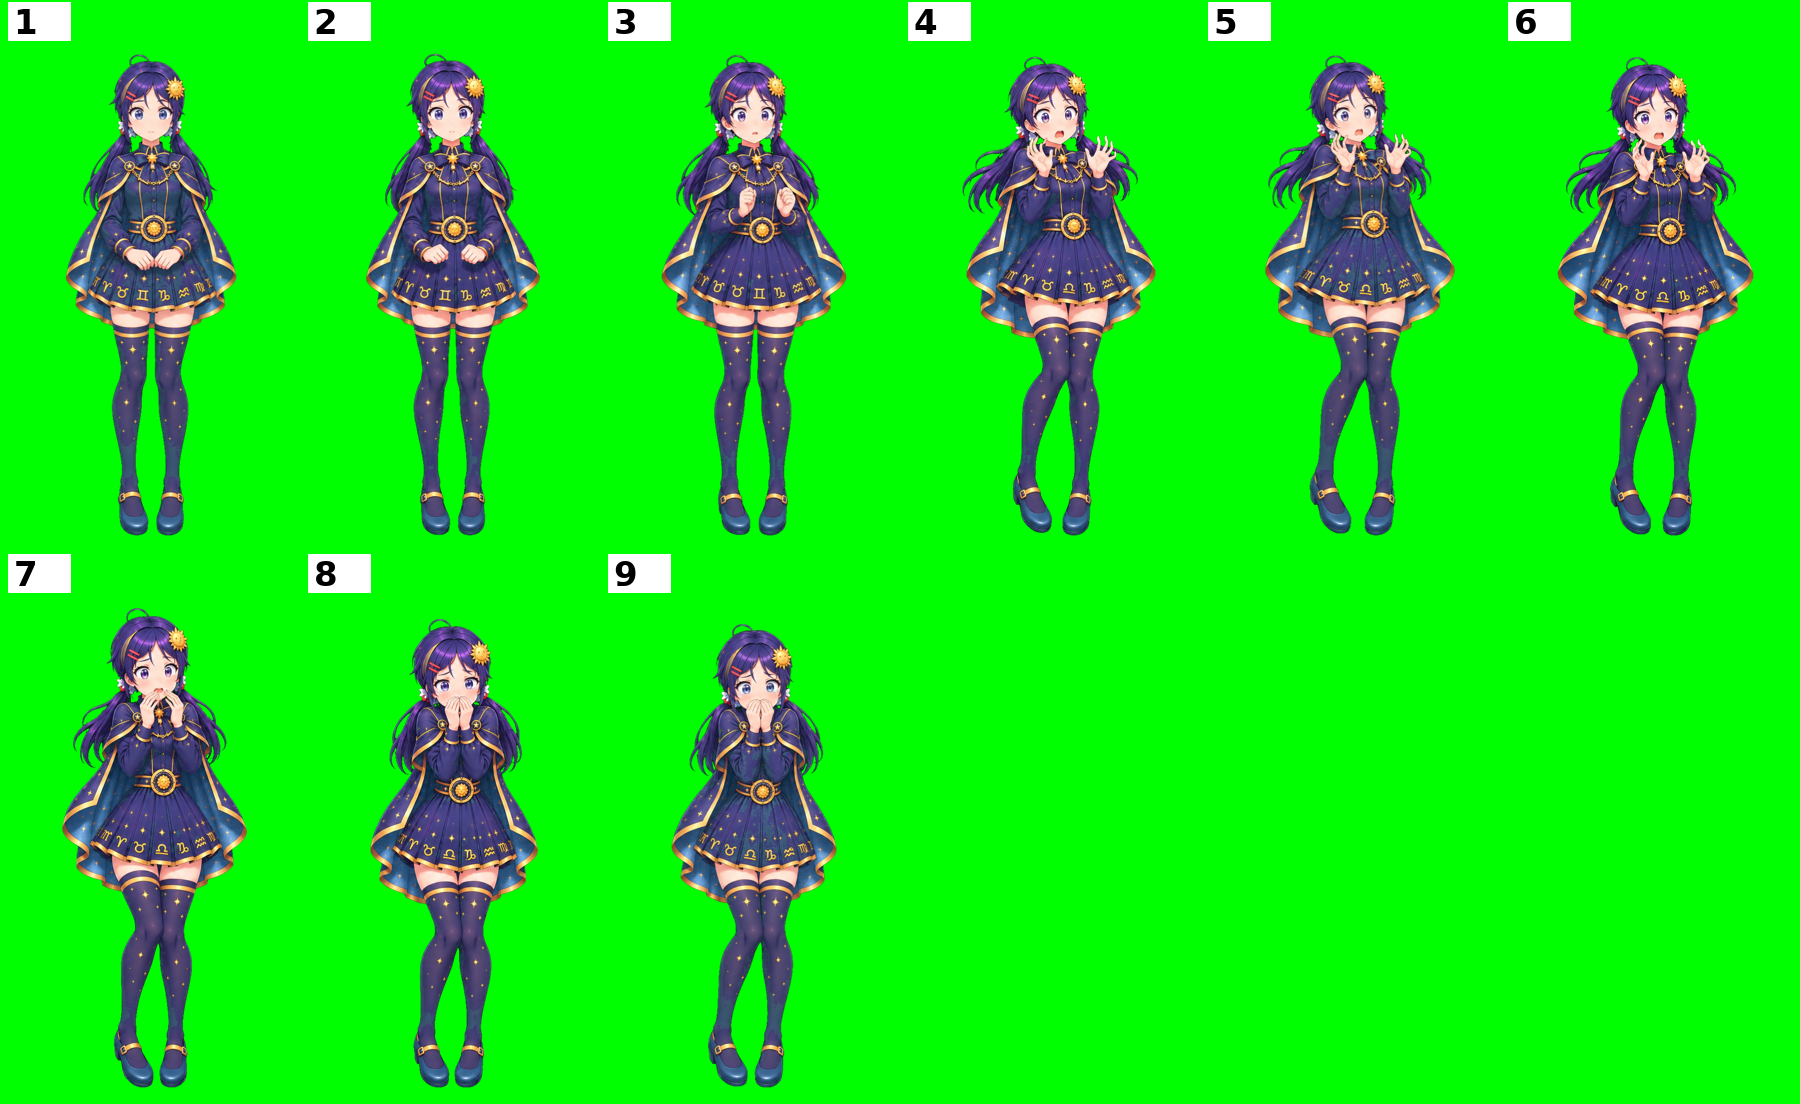
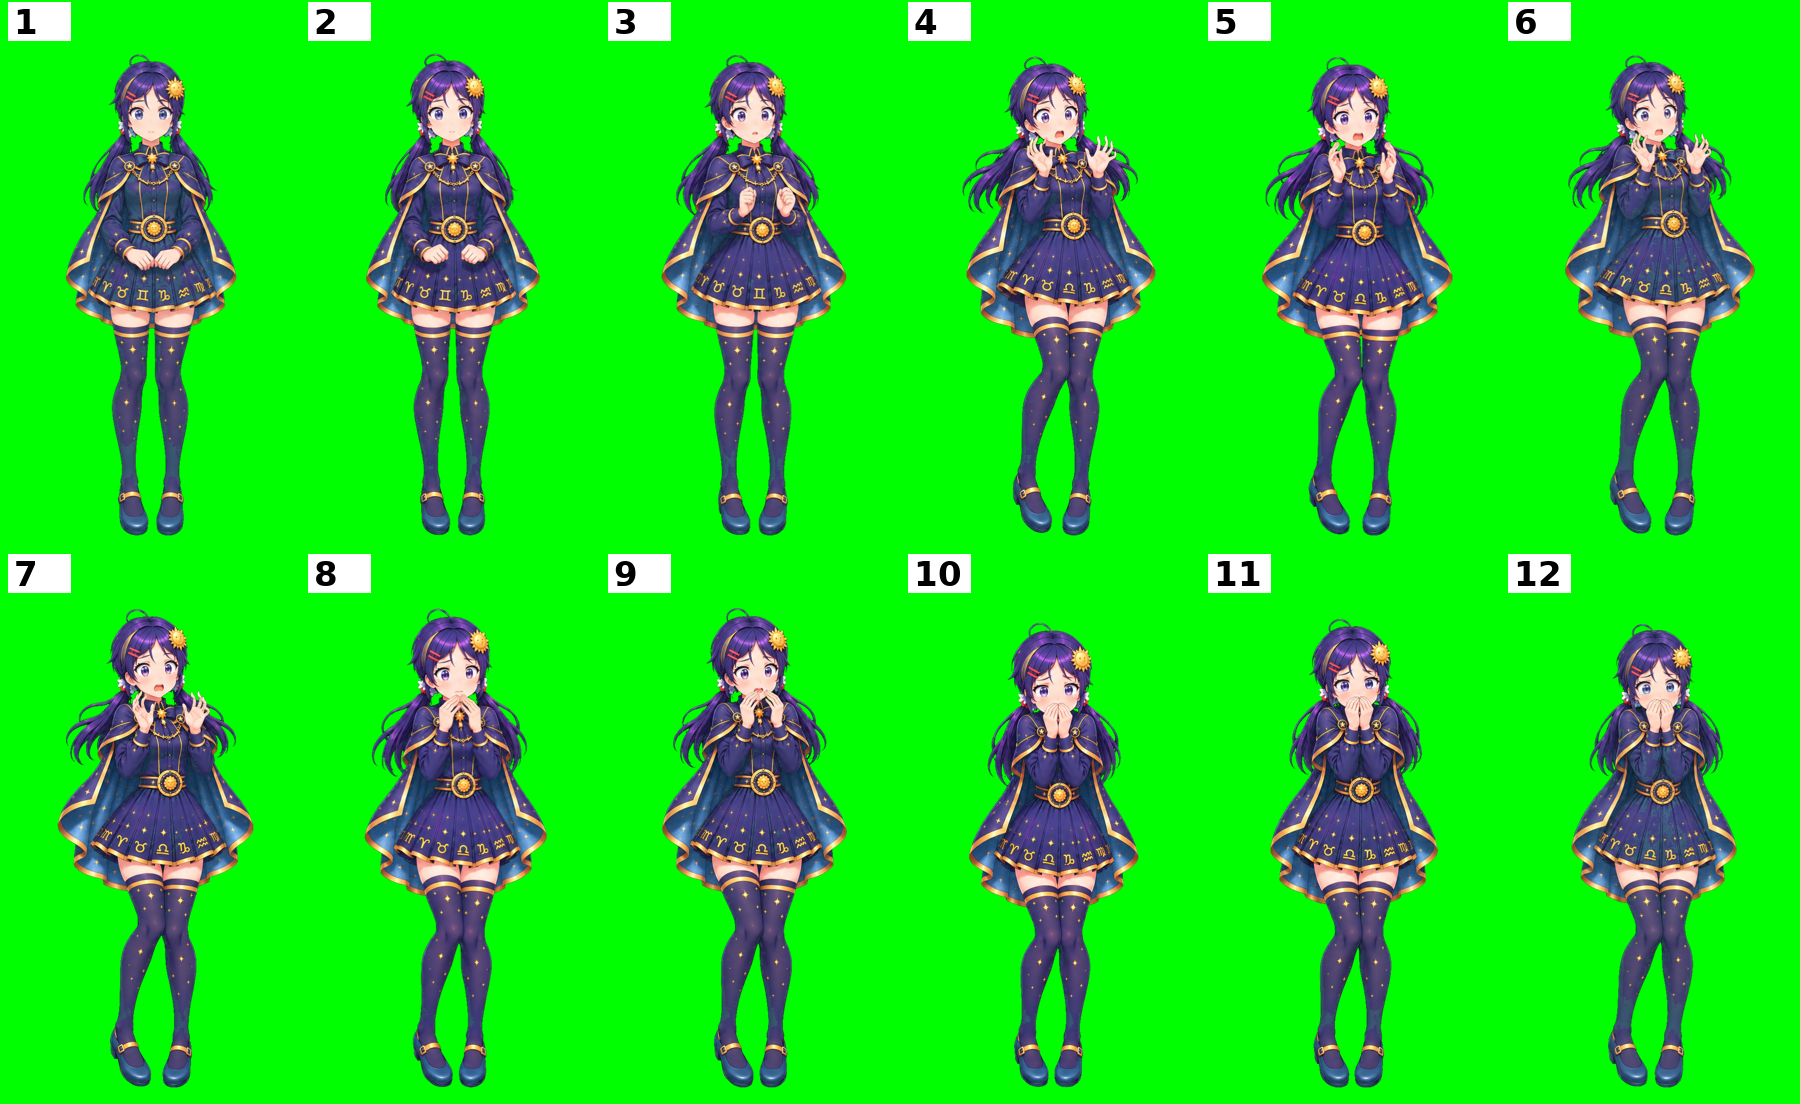
51-mita-craft: испуг — доп. лист 1 (3½, 7½, 8½), лента обновлена
Claude-Session: https://claude.ai/code/session_012PNwYZXdw6QfqQCMnTcc5j

diff --git a/projects/51-mita-craft/tools/make_frames.py b/projects/51-mita-craft/tools/make_frames.py
@@ -16,7 +16,7 @@ SHEETS = {
     'snap_i6': 'astro_look1 astro_look2 astro_look3', 'snap_i7': 'astro_rel1 astro_rel2 astro_rel3',
     'snap_i8': 'astro_sc1 astro_sc2 astro_sc3',
     'cast_k': 'cast_1 cast_5 cast_9', 'cast_i1': 'cast_2 cast_3 cast_4', 'cast_i2': 'cast_6 cast_7 cast_8', 'cast_i3': 'cast_h1 cast_h2 cast_h3',
-    'fear_k': 'fear_1 fear_4 fear_7', 'fear_i1': 'fear_2 fear_3 fear_35', 'fear_i2': 'fear_5 fear_6 fear_65',
+    'fear_k': 'fear_1 fear_4 fear_7', 'fear_i1': 'fear_2 fear_3 fear_35', 'fear_i2': 'fear_5 fear_6 fear_65', 'fear_x1': 'fear_37 fear_55 fear_62',
 }
 THIRDS = set()            # бюсты касаются друг друга — режем строго по третям
 CW = 768
